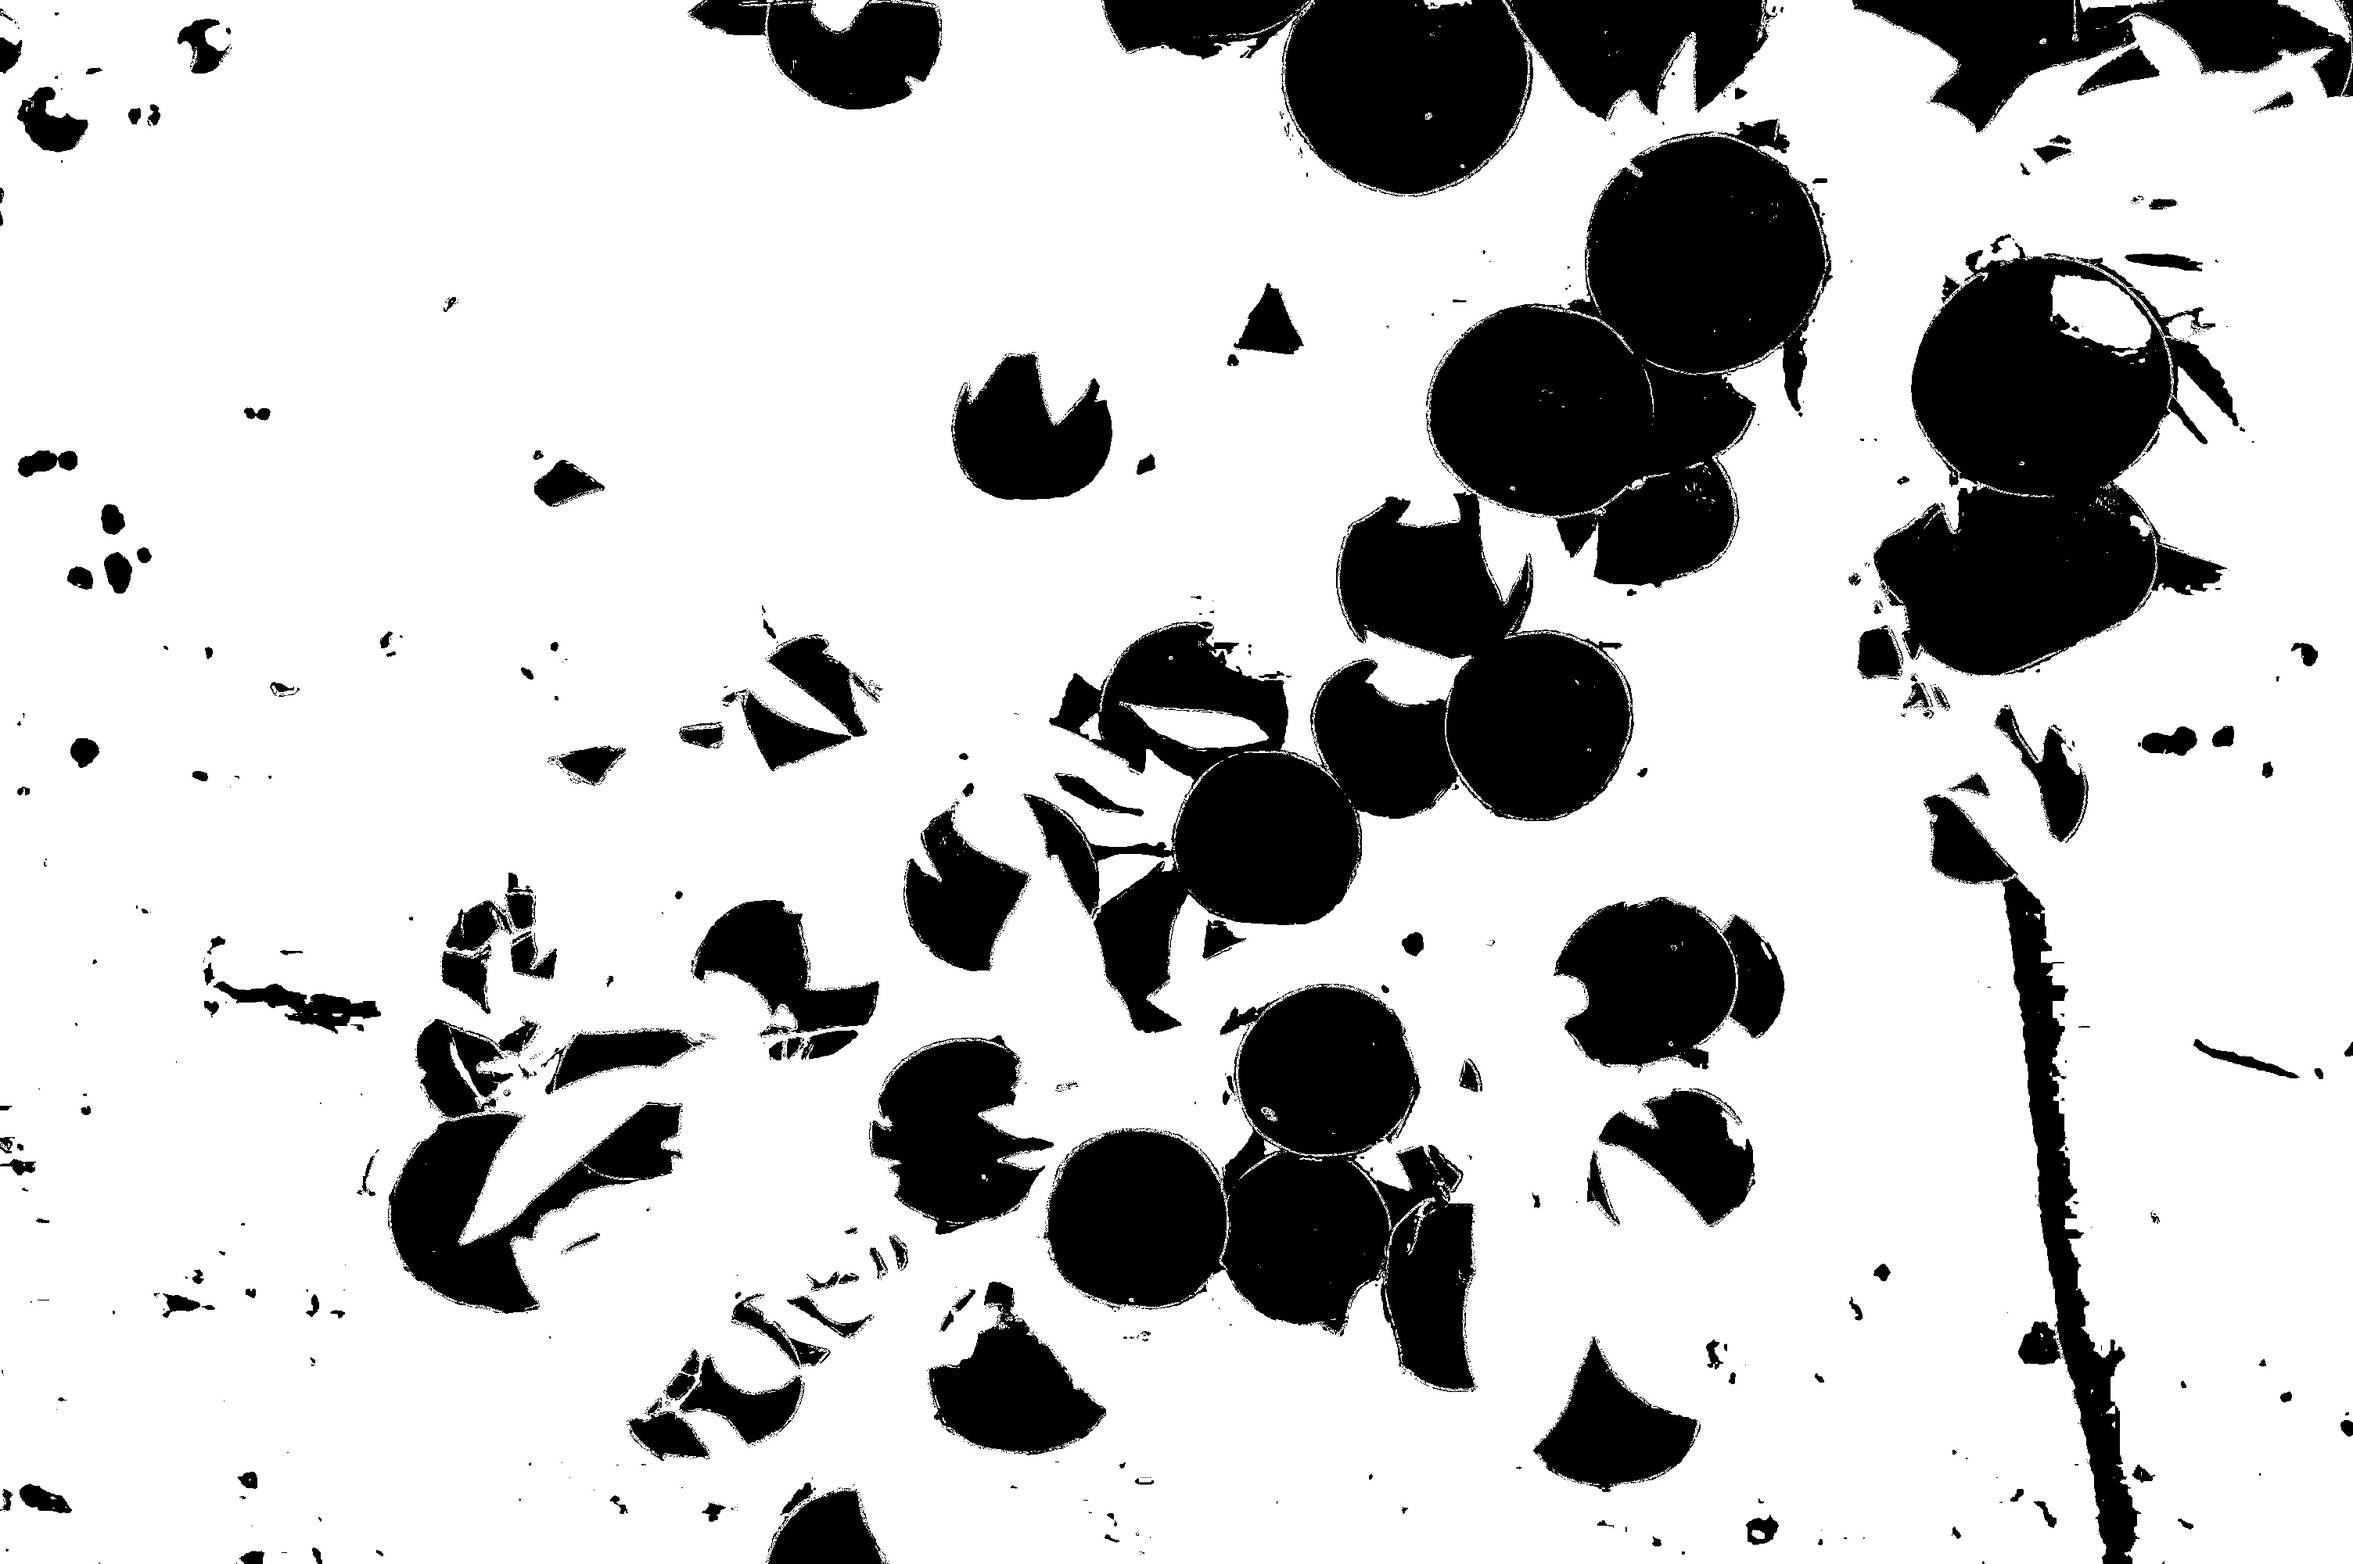
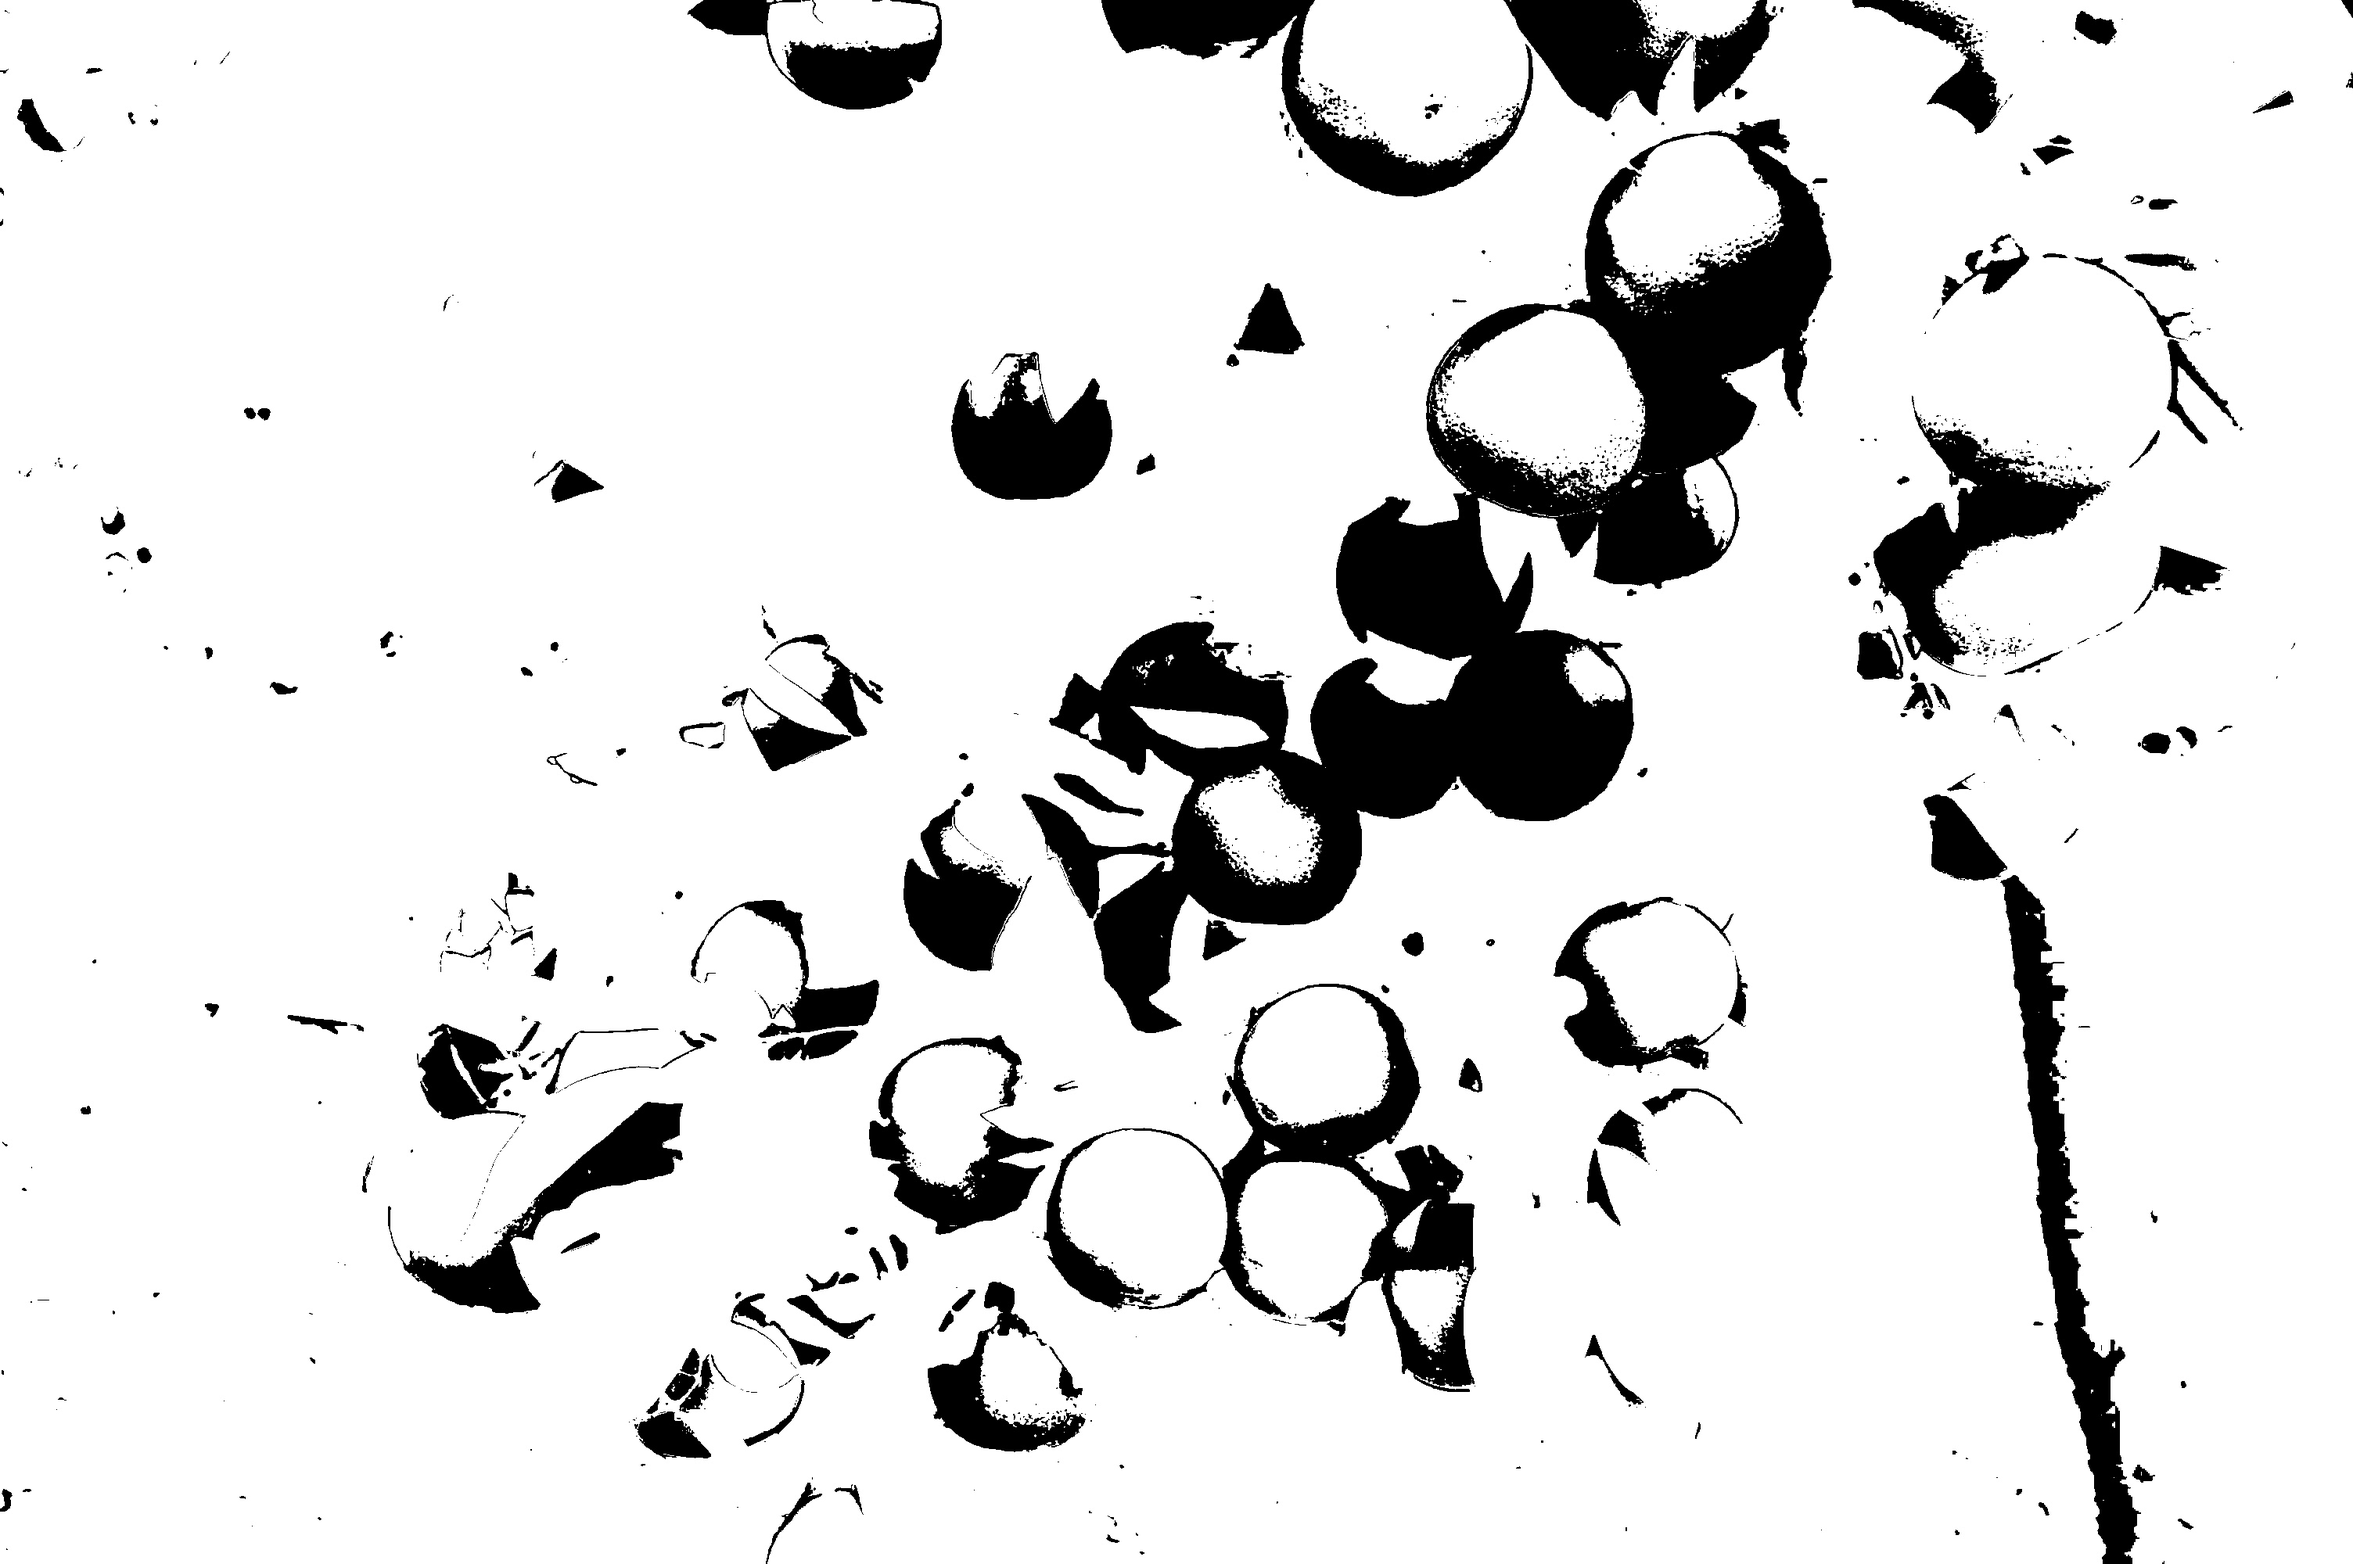
testing the new mask

diff --git a/circles.py b/circles.py
@@ -1,4 +1,4 @@
-#!/usr/local/bin/python
+#!/usr/bin/python3
 
 
 ##
@@ -16,125 +16,125 @@ import numpy as np
 
 def circleCount(fname):
 
-	img = cv2.imread("masks/" + fname + "_mask.jpg",0)
-	color = cv2.imread("images/" + fname + ".jpg",1)
+    img = cv2.imread("masks/" + fname + "_mask.jpg",0)
+    color = cv2.imread("images/" + fname + ".jpg",1)
 
-	img = cv2.medianBlur(img,5)
-	cimg = cv2.cvtColor(img,cv2.COLOR_GRAY2BGR)
+    img = cv2.medianBlur(img,5)
+    cimg = cv2.cvtColor(img,cv2.COLOR_GRAY2BGR)
 
-	circles = cv2.HoughCircles(img,cv2.HOUGH_GRADIENT,2,150,
-	                            param1=100,param2=100, minRadius=0,maxRadius=3000)
+    circles = cv2.HoughCircles(img,cv2.HOUGH_GRADIENT,2,150,
+                                param1=100,param2=100, minRadius=0,maxRadius=3000)
 
-	circles = np.uint16(np.around(circles))
-
-
-	count = 0
-	num = 0
-	averageR = 0
-	for i in circles[0,:]:
+    circles = np.uint16(np.around(circles))
 
 
- 		if  (averageR == 0) or (averageR != 0 and i[2] <= averageR*1.5 and  i[2] >= averageR*0.5):
-
-			mask = np.zeros(shape=(img.shape[0], img.shape[1]))
-			cv2.circle(mask,(i[0],i[1]),i[2],255, -1)
-			vals = countWhite(mask, img, (i[0],i[1]),i[2], num)
-
-			ratio = int(vals[1] / float(vals[0])*100)
-
-			if ratio >= 50:
-				count += 1
-
-				if averageR == 0:
-					averageR = i[2]
-				else:
-					averageR = (averageR + i[2]) / 2.0
-
-				# draw the outer circle
-				cv2.circle(cimg,(i[0],i[1]),i[2],(0,255,0),10)
-				cv2.circle(color,(i[0],i[1]),i[2],(0,255,0),10)
-			    # draw the center of the circle
-				cv2.circle(color,(i[0],i[1]),2,(0,0,255),5)
-
-			elif ratio >= 30:
-
-				print(ratio)
-				if i[2] <= averageR*1.2 and  i[2] >= averageR*0.2:
-
-					cv2.circle(cimg,(i[0],i[1]),i[2],(66, 134, 244),10)
-					cv2.circle(color,(i[0],i[1]),i[2],(66, 134, 244),10)
-				    # draw the center of the circle
-					cv2.circle(color,(i[0],i[1]),2,(0,0,255),5)
-
-				else:
-					cv2.circle(cimg,(i[0],i[1]),i[2],(0, 8, 255),10)
-			else:
-
-				print(ratio)
-				cv2.circle(cimg,(i[0],i[1]),i[2],(226, 66, 244),10)
-
-			# write the circle number
-			cv2.putText(cimg,str(num),(i[0],i[1]), cv2.FONT_HERSHEY_COMPLEX_SMALL , 2,(0,0,255),2,cv2.LINE_AA)
-
-		num +=1
+    count = 0
+    num = 0
+    averageR = 0
+    for i in circles[0,:]:
 
 
-	print(count)
+        if  (averageR == 0) or (averageR != 0 and i[2] <= averageR*1.5 and  i[2] >= averageR*0.5):
 
-	if not os.path.exists('circle_stage1'):
-		os.makedirs('circle_stage1')
+            mask = np.zeros(shape=(img.shape[0], img.shape[1]))
+            cv2.circle(mask,(i[0],i[1]),i[2],255, -1)
+            vals = countWhite(mask, img, (i[0],i[1]),i[2], num)
 
-	if not os.path.exists('final'):
-		os.makedirs('final')
+            ratio = int(vals[1] / float(vals[0])*100)
 
-	cv2.imwrite("circle_stage1/" +  fname + "_circles.png", cimg)
-	cv2.imwrite("final/" +  fname + "_circles.png", color)
+            if ratio >= 50:
+                count += 1
+
+                if averageR == 0:
+                    averageR = i[2]
+                else:
+                    averageR = (averageR + i[2]) / 2.0
+
+                # draw the outer circle
+                cv2.circle(cimg,(i[0],i[1]),i[2],(0,255,0),10)
+                cv2.circle(color,(i[0],i[1]),i[2],(0,255,0),10)
+                # draw the center of the circle
+                cv2.circle(color,(i[0],i[1]),2,(0,0,255),5)
+
+            elif ratio >= 30:
+
+                print(ratio)
+                if i[2] <= averageR*1.2 and  i[2] >= averageR*0.2:
+
+                    cv2.circle(cimg,(i[0],i[1]),i[2],(66, 134, 244),10)
+                    cv2.circle(color,(i[0],i[1]),i[2],(66, 134, 244),10)
+                    # draw the center of the circle
+                    cv2.circle(color,(i[0],i[1]),2,(0,0,255),5)
+
+                else:
+                    cv2.circle(cimg,(i[0],i[1]),i[2],(0, 8, 255),10)
+            else:
+
+                print(ratio)
+                cv2.circle(cimg,(i[0],i[1]),i[2],(226, 66, 244),10)
+
+            # write the circle number
+            cv2.putText(cimg,str(num),(i[0],i[1]), cv2.FONT_HERSHEY_COMPLEX_SMALL , 2,(0,0,255),2,cv2.LINE_AA)
+
+        num +=1
+
+
+    print(count)
+
+    if not os.path.exists('circle_stage1'):
+        os.makedirs('circle_stage1')
+
+    if not os.path.exists('final'):
+        os.makedirs('final')
+
+    cv2.imwrite("circle_stage1/" +  fname + "_circles.png", cimg)
+    cv2.imwrite("final/" +  fname + "_circles.png", color)
 
 
 def countWhite(mask, img, center, radius, index):
 
-	numTotal = int(3.14 * radius**2)
-	numWhite = 0
-	numOutside = numTotal
+    numTotal = int(3.14 * radius**2)
+    numWhite = 0
+    numOutside = numTotal
 
 
-	lowerbound_out = max(int(center[1]) - radius, 0)
-	upperbound_out = min(center[1] + radius, img.shape[0])
+    lowerbound_out = max(int(center[1]) - radius, 0)
+    upperbound_out = min(center[1] + radius, img.shape[0])
 
-	lowerbound_in = max(int(center[0]) - radius, 0)
-	upperbound_in = min(center[0] + radius, img.shape[1])
+    lowerbound_in = max(int(center[0]) - radius, 0)
+    upperbound_in = min(center[0] + radius, img.shape[1])
 
-	for k in range(lowerbound_out, upperbound_out):
-		for i in range(lowerbound_in, upperbound_in):
+    for k in range(lowerbound_out, upperbound_out):
+        for i in range(lowerbound_in, upperbound_in):
 
-			if (mask[k,i] == 255 and img[k,i] == 0):
-				numWhite += 1
+            if (mask[k,i] == 255 and img[k,i] == 0):
+                numWhite += 1
 
-			if (mask[k,i] == 255):
-				numOutside -= 1
+            if (mask[k,i] == 255):
+                numOutside -= 1
 
 
 
-	if (numOutside / float(numTotal)*100) > 40:
-		print("too much outside of img: ", (numOutside / float(numTotal)*100))
+    if (numOutside / float(numTotal)*100) > 40:
+        print("too much outside of img: ", (numOutside / float(numTotal)*100))
 
-	else:
-		numWhite += numOutside
+    else:
+        numWhite += numOutside
 
-	print("index:", index, numTotal, numWhite)
+    print("index:", index, numTotal, numWhite)
 
-	return (numTotal, numWhite)
+    return (numTotal, numWhite)
 
 if __name__ == '__main__':
 
     # imageList = os.listdir("./images/")
 
-	circleCount("citrus1")
-	circleCount("citrus2")
-	circleCount("citrus3")
-	circleCount("citrus4")
-	circleCount("citrus5")
-	circleCount("citrus6")
-	circleCount("citrus7")
-	circleCount("citrus8")
-	circleCount("orange1")
+    circleCount("citrus1")
+    # circleCount("citrus2")
+    # circleCount("citrus3")
+    # circleCount("citrus4")
+    # circleCount("citrus5")
+    # circleCount("citrus6")
+    # circleCount("citrus7")
+    # circleCount("citrus8")
+    # circleCount("orange1")

diff --git a/a2.py b/a2.py
@@ -23,20 +23,33 @@ def varianceFilter(fname):
 
     ndi = NDI(img)
 
-    r_var = ndimage.generic_filter(r, np.var, size=3)
-    g_var = ndimage.generic_filter(g, np.var, size=3)
-    b_var = ndimage.generic_filter(b, np.var, size=3)
+    # r_var = ndimage.generic_filter(r, np.var, size=3)
+    # g_var = ndimage.generic_filter(g, np.var, size=3)
+    # b_var = ndimage.generic_filter(b, np.var, size=3)
 
-    mean = np.zeros(shape=(img.shape[0], img.shape[1]))
+    # mean = np.zeros(shape=(img.shape[0], img.shape[1]))
+
+    # mean[(r_var + g_var + b_var) > 270] = 255
 
     # gray_threshold
-    for k in range(0, img.shape[0]):
-        for i in range(0, img.shape[1]):
-            mean_val = int(r_var[k, i]) + int(g_var[k, i]) + int(b_var[k, i])
-            if mean_val <= 270:
-                mean[k, i] = 0
-            else:
-                mean[k, i] = 255
+    # for k in range(0, img.shape[0]):
+    #     for i in range(0, img.shape[1]):
+    #         mean_val = int(r_var[k, i]) + int(g_var[k, i]) + int(b_var[k, i])
+    #         if mean_val <= 270:
+    #             mean[k, i] = 0
+    #         else:
+    #             mean[k, i] = 255
+
+
+    imgGray = cv2.cvtColor(img, cv2.COLOR_BGR2GRAY)
+
+
+    test, mean = cv2.threshold(imgGray, 89, 255, cv2.THRESH_BINARY | cv2.THRESH_OTSU)
+
+
+    edges = cv2.Canny(imgGray, 100, 200)
+
+    cv2.imwrite("edges.jpg", edges)
 
 
     # convert image to YCrcb color space
@@ -57,15 +70,20 @@ def varianceFilter(fname):
     mask = np.full((img.shape[0], img.shape[1]), 255)
 
 
-   # gray_threshold
-    for k in range(0, img.shape[0]):
-        for i in range(0, img.shape[1]):
+    mask[(ndi == 0) & (mean == 0) & (cr == 0) & (cb == 255)] = 0
+    b[(ndi == 0) & (mean == 0) & (cr == 0) & (cb == 255)] = 0
+    g[(ndi == 0) & (mean == 0) & (cr == 0) & (cb == 255)] = 0
+    r[(ndi == 0) & (mean == 0) & (cr == 0) & (cb == 255)] = 0
 
-            if ndi[k, i] == 0 and mean[k, i] == 0 and cr[k, i] == 0 and cb[k, i] == 255:
-                mask[k, i] = 0
-                b[k, i] = 0
-                g[k, i] = 0
-                r[k, i] = 0
+   # gray_threshold
+    # for k in range(0, img.shape[0]):
+    #     for i in range(0, img.shape[1]):
+
+    #         if ndi[k, i] == 0 and mean[k, i] == 0 and cr[k, i] == 0 and cb[k, i] == 255:
+    #             mask[k, i] = 0
+    #             b[k, i] = 0
+    #             g[k, i] = 0
+    #             r[k, i] = 0
 
 
 
